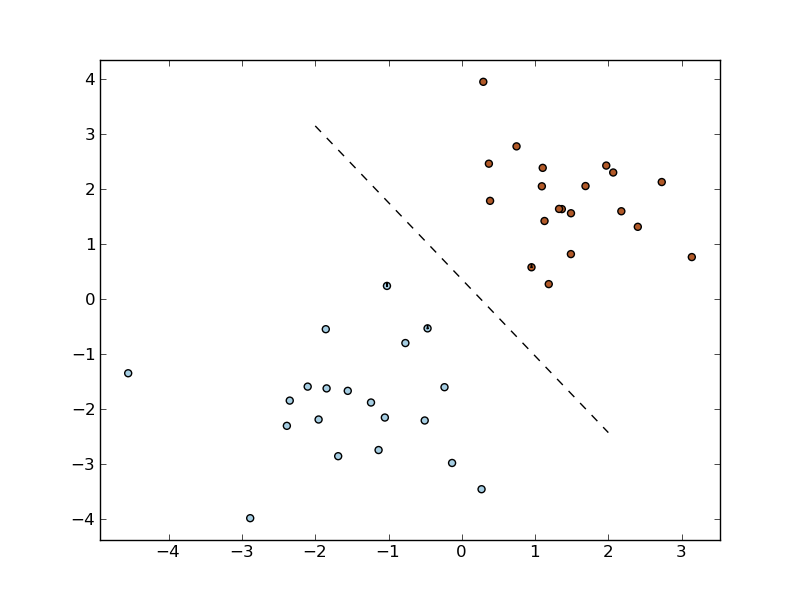
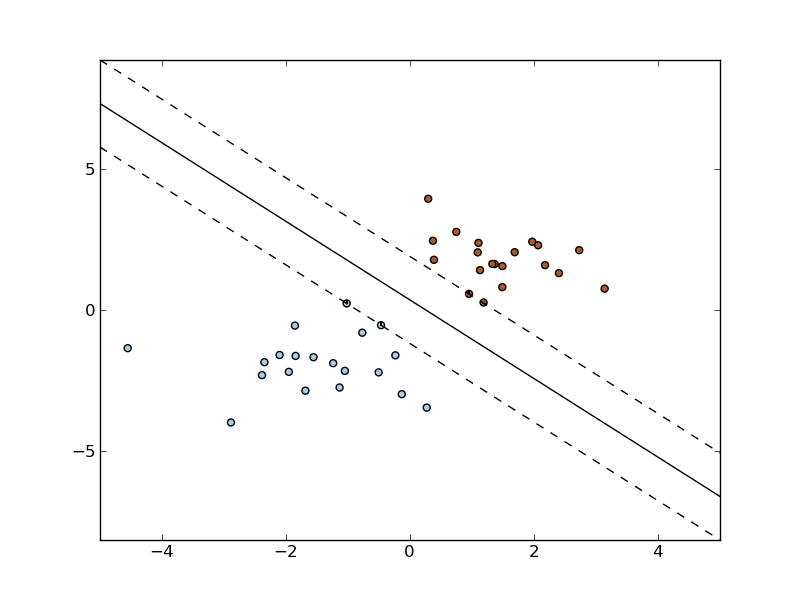
More doc for the svm module.
Added a little reference for OneClassSVM and some examples.

From: Fabian Pedregosa <fabian.pedregosa@inria.fr>

git-svn-id: https://scikit-learn.svn.sourceforge.net/svnroot/scikit-learn/trunk@563 22fbfee3-77ab-4535-9bad-27d1bd3bc7d8

diff --git a/examples/plot_svm_hyperplane.py b/examples/plot_svm_hyperplane.py
@@ -13,12 +13,22 @@ clf.fit(X, Y)
 
 # get the separating hyperplane
 w = np.dot(clf.coef_[0], clf.support_) 
-xx = np.linspace(-2, 2)
-yy = (clf.rho_[0] - w[0]*xx)/w[1]
+a = -w[0]/w[1]
+xx = np.linspace(-5, 5)
+yy = a*xx + (clf.rho_[0])/w[1]
+
+# plot the paralels to the separating hyperplane that pass through the
+# support vectors
+b = clf.support_[0]
+yy_down = a*xx + (b[1] - a*b[0])
+b = clf.support_[-1]
+yy_up = a*xx + (b[1] - a*b[0])
 
 # plot the line, the points, and the nearest vectors to the plane
 pl.set_cmap(pl.cm.Paired)
-pl.plot(xx, yy, 'k--')
+pl.plot(xx, yy, 'k-')
+pl.plot(xx, yy_down, 'k--')
+pl.plot(xx, yy_up, 'k--')
 pl.scatter(X[:,0], X[:,1], c=Y)
 pl.scatter(clf.support_[:,0], clf.support_[:,1], marker='+')
 

diff --git a/examples/plot_svm_oneclass.py b/examples/plot_svm_oneclass.py
@@ -4,12 +4,11 @@ import pylab as pl
 from scikits.learn import svm
 
 xx, yy = np.meshgrid(np.linspace(-5, 5, 500), np.linspace(-5, 5, 500))
-np.random.seed(0)
-X = np.random.randn(300, 2)
-Y = np.logical_xor(X[:,0]>0, X[:,1]>0)
+X = np.random.randn(100, 2)
+Y = [0]*100
 
 # fit the model
-clf = svm.SVC(impl='nu_svc', kernel='rbf', C=100)
+clf = svm.OneClassSVM(nu=0.5)
 clf.fit(X, Y)
 
 # plot the line, the points, and the nearest vectors to the plane
@@ -19,7 +18,6 @@ Z = Z.reshape(xx.shape)
 pl.set_cmap(pl.cm.Paired)
 pl.pcolormesh(xx, yy, Z)
 pl.scatter(X[:,0], X[:,1], c=Y)
-
+pl.scatter(clf.support_[:,0], clf.support_[:,1], c='black')
 pl.axis('tight')
 pl.show()
-

diff --git a/doc/modules/svm.rst b/doc/modules/svm.rst
@@ -80,16 +80,14 @@ data close to the model prediction.
 
 Distribution estimation
 =======================
-One-class SVM was proposed by Scholkopf et al. (2001) for estimating
-the support of a high-dimensional distribution. Given training vectors
-:math:`x_i \in \mathbb{R}^n, i=1, .., l` without any class
-information, the primal form is:
+One-class SVM is used for outlayer detection, that is, given a set of
+samples, it will detect the soft boundary of that set.
 
-.. math::    \min_{w, b, \xi} {1 \over 2} w^T w - \rho + {1 \over \nu l} \sum_{i=1}^l \xi_i
+.. linteralinclude:: ../../examples/plot_svm_oneclass.py
 
-             \textrm{subject to} w^T \phi(x_i) \geq \rho - \xi_i
+.. image:: data_svm/oneclass.png
 
-             \xi_i \geq 0, i=1,...,l
+.. autoclass:: scikits.learn.svm.OneClassSVM
 
 Scaling
 =======
